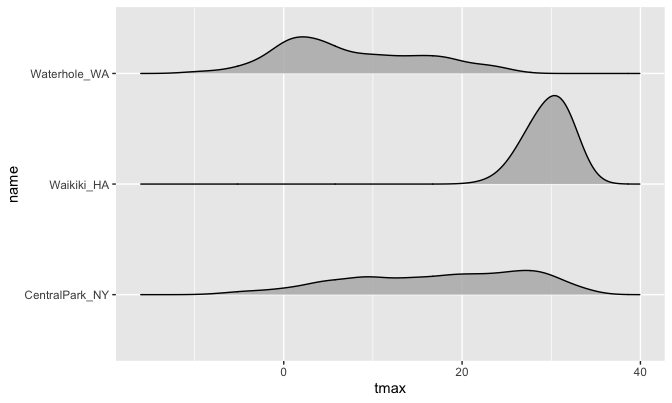
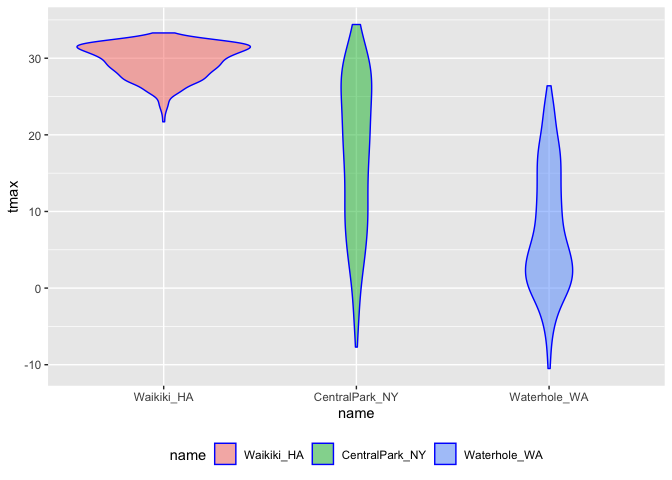
data manipulation as part of plotting

Changed region(s): [[0.0, 0.0, 1.0, 0.9826]]

diff --git a/viz_part2.md b/viz_part2.md
@@ -326,3 +326,116 @@ ggplot(data = waikiki, aes(x = date, y = tmax, color = name)) +
     ## Warning: Removed 3 rows containing missing values (geom_point).
 
 ![](viz_part2_files/figure-gfm/unnamed-chunk-14-1.png)<!-- -->
+
+## `patchwork`
+
+remember faceting?
+
+``` r
+weather_df %>% 
+  ggplot(aes(x = tmin, fill = name)) +
+  geom_density(alpha = .5) +
+  facet_grid(. ~ name)
+```
+
+    ## Warning: Removed 15 rows containing non-finite values (stat_density).
+
+![](viz_part2_files/figure-gfm/unnamed-chunk-15-1.png)<!-- -->
+
+What happens when you want multiple plots but can’t facet..?
+
+``` r
+tmax_tmin_p = 
+  weather_df %>% 
+  ggplot(aes(x = tmax, y = tmin, color = name)) + 
+  geom_point(alpha = .5) +
+  theme(legend.position = "none")
+
+prcp_dens_p = 
+  weather_df %>% 
+  filter(prcp > 0) %>% 
+  ggplot(aes(x = prcp, fill = name)) + 
+  geom_density(alpha = .5) + 
+  theme(legend.position = "none")
+
+tmax_date_p = 
+  weather_df %>% 
+  ggplot(aes(x = date, y = tmax, color = name)) + 
+  geom_point(alpha = .5) +
+  geom_smooth(se = FALSE) + 
+  theme(legend.position = "bottom")
+
+(tmax_tmin_p / prcp_dens_p) + tmax_date_p
+```
+
+    ## Warning: Removed 15 rows containing missing values (geom_point).
+
+    ## `geom_smooth()` using method = 'loess' and formula 'y ~ x'
+
+    ## Warning: Removed 3 rows containing non-finite values (stat_smooth).
+
+    ## Warning: Removed 3 rows containing missing values (geom_point).
+
+![](viz_part2_files/figure-gfm/unnamed-chunk-16-1.png)<!-- -->
+
+## Data manipulation
+
+Control your factors.
+
+``` r
+weather_df %>%
+  mutate(name = forcats::fct_relevel(name, c("Waikiki_HA", "CentralPark_NY", "Waterhole_WA"))) %>% 
+  ggplot(aes(x = name, y = tmax)) + 
+  geom_violin(aes(fill = name), color = "blue", alpha = .5) + 
+  theme(legend.position = "bottom")
+```
+
+    ## Warning: Removed 3 rows containing non-finite values (stat_ydensity).
+
+![](viz_part2_files/figure-gfm/unnamed-chunk-17-1.png)<!-- -->
+
+``` r
+weather_df %>%
+  mutate(name = forcats::fct_reorder(name, tmax)) %>% 
+  ggplot(aes(x = name, y = tmax)) + 
+  geom_violin(aes(fill = name), color = "blue", alpha = .5) + 
+  theme(legend.position = "bottom")
+```
+
+    ## Warning: Removed 3 rows containing non-finite values (stat_ydensity).
+
+![](viz_part2_files/figure-gfm/unnamed-chunk-18-1.png)<!-- -->
+
+What if I wanted densities for tmin and tmax simultaneously?
+
+``` r
+weather_df %>% 
+  filter(name == "CentralPark_NY") %>% 
+  pivot_longer(
+    tmax:tmin,
+    names_to = "observation",
+    values_to = "temperatures"
+  ) %>% 
+  ggplot(aes(x = temperatures, fill = observation)) +
+  geom_density(alpha=0.5)
+```
+
+![](viz_part2_files/figure-gfm/unnamed-chunk-19-1.png)<!-- -->
+
+Separate graphs:
+
+``` r
+weather_df %>% 
+  pivot_longer(
+    tmax:tmin,
+    names_to = "observation",
+    values_to = "temperatures"
+  ) %>% 
+  ggplot(aes(x = temperatures, fill = observation)) +
+  geom_density(alpha=0.5) +
+facet_grid(. ~ name)
+```
+
+    ## Warning: Removed 18 rows containing non-finite values (stat_density).
+
+![](viz_part2_files/figure-gfm/unnamed-chunk-20-1.png)<!-- -->
